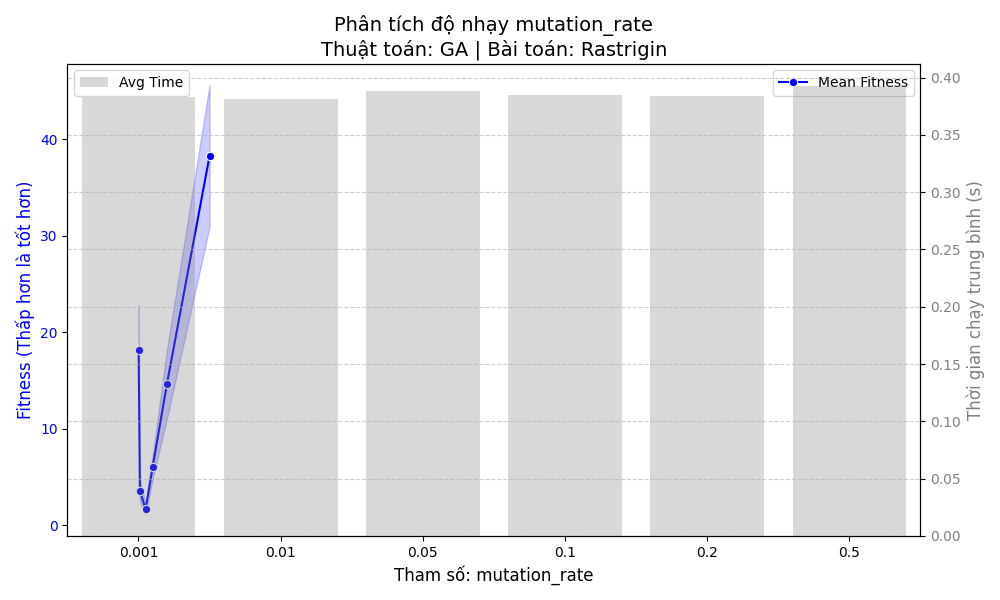
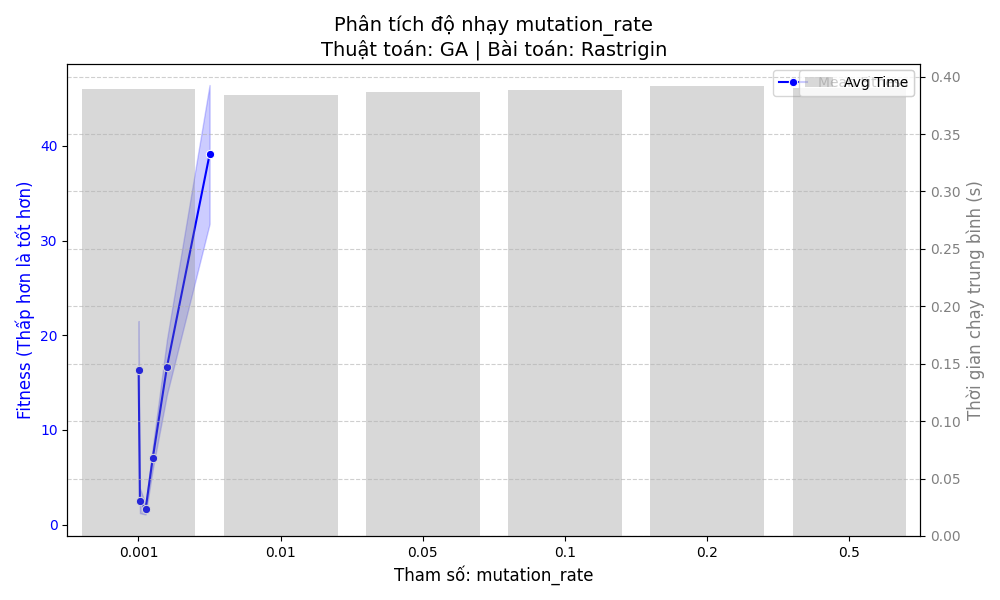
Remove the scipy library, add a comparison between some algorithms

diff --git a/main.py b/main.py
@@ -1,5 +1,4 @@
 import numpy as np
-from scipy import stats  # Thêm thư viện thống kê cho Scenario 4
 
 from problems.continuous import Sphere, Rastrigin, Rosenbrock, Ackley
 from problems.discrete import TSP, Knapsack, ShortestPath
@@ -35,10 +34,11 @@ from utils.experiments import run_suite
 from utils.metrics import run_scalability_test
 from utils.visualization import plot_3d_surface
 
+
 # Thử nghiệm import module phân tích nâng cao
 try:
     from utils.sensitivity import run_parameter_sweep, plot_sensitivity_results
-    from utils.advanced_analysis import plot_exploration_exploitation
+    from utils.advanced_analysis import perform_ttest_numpy, perform_ranksums_numpy, plot_exploration_exploitation
     HAS_ADVANCED_TOOLS = True
 except ImportError:
     HAS_ADVANCED_TOOLS = False
@@ -211,8 +211,8 @@ def main():
     print(f"DE:  {np.mean(de_results):.4f} ± {np.std(de_results):.4f}")
     
     # Thực hiện kiểm định
-    t_stat, p_val_t = stats.ttest_ind(pso_results, de_results)
-    w_stat, p_val_w = stats.ranksums(pso_results, de_results)
+    t_stat, p_val_t = perform_ttest_numpy(pso_results, de_results)
+    w_stat, p_val_w = perform_ranksums_numpy(pso_results, de_results)
     
     print("\n[KIỂM ĐỊNH THỐNG KÊ (Alpha = 0.05)]")
     print(f"1. T-Test P-value: {p_val_t:.4e}")
@@ -224,6 +224,70 @@ def main():
         print(f"=> Nhận định: {better_algo} hoạt động tốt hơn hẳn thuật toán còn lại trên bài toán Rastrigin 10D.")
     else:
         print("=> KẾT LUẬN: P-value >= 0.05. KHÔNG CÓ sự khác biệt rõ rệt về mặt thống kê.")
+
+    # ------------------------------------------
+    # MỞ RỘNG: T-TEST CHO BÀI TOÁN RỜI RẠC
+    # ------------------------------------------
+    print("\n" + "-"*60)
+    print("SCENARIO 4.1: T-TEST FOR TSP (GA vs ACO)")
+    print("-"*60)
+
+    tsp_stats_problem = TSP(n_cities=20)
+
+    print(f"Đang chạy thu thập mẫu cho GA-TSP ({n_runs_stats} lần)...")
+    ga_tsp_results = [
+        GeneticAlgorithmTSP(tsp_stats_problem, max_iter=500, pop_size=50).solve()[1]
+        for _ in range(n_runs_stats)
+    ]
+
+    print(f"Đang chạy thu thập mẫu cho ACO ({n_runs_stats} lần)...")
+    aco_results = [
+        ACO(tsp_stats_problem, max_iter=200, n_ants=20, decay=0.5).solve()[1]
+        for _ in range(n_runs_stats)
+    ]
+
+    t_stat_tsp, p_val_tsp = perform_ttest_numpy(ga_tsp_results, aco_results)
+    print(f"GA-TSP: {np.mean(ga_tsp_results):.4f} ± {np.std(ga_tsp_results):.4f}")
+    print(f"ACO:    {np.mean(aco_results):.4f} ± {np.std(aco_results):.4f}")
+    print(f"T-Test p-value: {p_val_tsp:.4e}")
+    if p_val_tsp < 0.05:
+        better_tsp = "GA-TSP" if np.mean(ga_tsp_results) < np.mean(aco_results) else "ACO"
+        print(f"=> Có khác biệt có ý nghĩa thống kê. Thuật toán tốt hơn: {better_tsp}.")
+    else:
+        print("=> Chưa thấy khác biệt có ý nghĩa thống kê giữa GA-TSP và ACO.")
+
+    print("\n" + "-"*60)
+    print("SCENARIO 4.2: T-TEST FOR KNAPSACK (Hill Climbing vs Simulated Annealing)")
+    print("-"*60)
+
+    knapsack_stats_problem = Knapsack(n_items=50)
+
+    print(f"Đang chạy thu thập mẫu cho HillClimbingKnapsack ({n_runs_stats} lần)...")
+    hc_knapsack_results = [
+        HillClimbingKnapsack(knapsack_stats_problem, max_iter=500).solve()[1]
+        for _ in range(n_runs_stats)
+    ]
+
+    print(f"Đang chạy thu thập mẫu cho SimulatedAnnealingKnapsack ({n_runs_stats} lần)...")
+    sa_knapsack_results = [
+        SimulatedAnnealingKnapsack(knapsack_stats_problem, max_iter=500, initial_temp=1000).solve()[1]
+        for _ in range(n_runs_stats)
+    ]
+
+    # Knapsack fitness trả về giá trị âm (vì framework minimize), nên ta đảo dấu khi hiển thị
+    hc_values = -np.array(hc_knapsack_results)  # Giá trị thực (dương)
+    sa_values = -np.array(sa_knapsack_results)  # Giá trị thực (dương)
+    
+    t_stat_knapsack, p_val_knapsack = perform_ttest_numpy(hc_knapsack_results, sa_knapsack_results)
+    print(f"HC-Knapsack (Giá trị): {np.mean(hc_values):.4f} ± {np.std(hc_values):.4f}")
+    print(f"SA-Knapsack (Giá trị): {np.mean(sa_values):.4f} ± {np.std(sa_values):.4f}")
+    print(f"T-Test p-value: {p_val_knapsack:.4e}")
+    if p_val_knapsack < 0.05:
+        # Đối với Knapsack: Giá trị CAO HƠN = TỐT HƠN (do ta đã đảo dấu)
+        better_knapsack = "HC-Knapsack" if np.mean(hc_values) > np.mean(sa_values) else "SA-Knapsack"
+        print(f"=> Có khác biệt có ý nghĩa thống kê. Thuật toán tốt hơn: {better_knapsack}.")
+    else:
+        print("=> Chưa thấy khác biệt có ý nghĩa thống kê giữa HC và SA trên Knapsack.")
 
     # ==========================================
     # SCENARIO 5: PHÂN TÍCH NÂNG CAO (SENSITIVITY & EXPLORATION)

diff --git a/utils/advanced_analysis.py b/utils/advanced_analysis.py
@@ -2,6 +2,26 @@ import numpy as np
 import matplotlib.pyplot as plt
 import pandas as pd
 
+
+def _norm_cdf_approx(x):
+    """
+    Xấp xỉ CDF của phân phối chuẩn chuẩn hóa N(0,1) bằng công thức
+    Abramowitz-Stegun.
+    """
+    z = np.asarray(x, dtype=float)
+    abs_z = np.abs(z)
+    t = 1.0 / (1.0 + 0.2316419 * abs_z)
+    poly = (
+        0.319381530 * t
+        - 0.356563782 * t**2
+        + 1.781477937 * t**3
+        - 1.821255978 * t**4
+        + 1.330274429 * t**5
+    )
+    pdf = 0.3989422804014327 * np.exp(-0.5 * abs_z**2)
+    cdf_pos = 1.0 - pdf * poly
+    return np.where(z >= 0, cdf_pos, 1.0 - cdf_pos)
+
 def perform_ttest_numpy(data1, data2):
     """
     Thực hiện kiểm định t-test độc lập (Independent T-test) bằng NumPy thuần.
@@ -13,10 +33,65 @@ def perform_ttest_numpy(data1, data2):
     
     # Tính t-statistic
     pooled_se = np.sqrt(v1/n1 + v2/n2)
+    if pooled_se == 0:
+        return 0.0, 1.0
     t_stat = (m1 - m2) / pooled_se
     
-    # Báo cáo: Nếu |t| > 2 (xấp xỉ mức alpha=0.05), sự khác biệt có ý nghĩa
-    return t_stat, "Significant" if abs(t_stat) > 2.1 else "Not Significant"
+    # Xấp xỉ P_value bằng hàm lỗi erf - Dựa trên phân phối chuẩn
+    # Với n > 30, phân phối T xấp xỉ phân phối chuẩn
+    cdf = _norm_cdf_approx(abs(t_stat))
+    p_value = 2 * (1 - cdf)
+
+    return float(t_stat), float(p_value)
+
+
+def perform_ranksums_numpy(data1, data2):
+    """
+    Wilcoxon rank-sum (Mann-Whitney U) bằng NumPy thuần,
+    trả về z-statistic và p-value hai phía.
+    """
+    sample1 = np.asarray(data1, dtype=float)
+    sample2 = np.asarray(data2, dtype=float)
+    n1, n2 = len(sample1), len(sample2)
+
+    if n1 == 0 or n2 == 0:
+        return 0.0, 1.0
+
+    combined = np.concatenate([sample1, sample2])
+    order = np.argsort(combined, kind='mergesort')
+    sorted_values = combined[order]
+
+    ranks_sorted = np.empty(len(combined), dtype=float)
+    i = 0
+    while i < len(sorted_values):
+        j = i
+        while j + 1 < len(sorted_values) and sorted_values[j + 1] == sorted_values[i]:
+            j += 1
+        avg_rank = (i + j + 2) / 2.0
+        ranks_sorted[i:j + 1] = avg_rank
+        i = j + 1
+
+    ranks = np.empty(len(combined), dtype=float)
+    ranks[order] = ranks_sorted
+
+    r1 = np.sum(ranks[:n1])
+    u1 = r1 - n1 * (n1 + 1) / 2.0
+
+    n = n1 + n2
+    mean_u = n1 * n2 / 2.0
+
+    if n <= 1:
+        return 0.0, 1.0
+
+    _, counts = np.unique(combined, return_counts=True)
+    tie_term = np.sum(counts**3 - counts)
+    var_u = (n1 * n2 / 12.0) * ((n + 1) - tie_term / (n * (n - 1)))
+    if var_u <= 0:
+        return 0.0, 1.0
+
+    z_stat = (u1 - mean_u) / np.sqrt(var_u)
+    p_value = 2 * (1 - _norm_cdf_approx(abs(z_stat)))
+    return float(z_stat), float(p_value)
 
 def plot_exploration_exploitation(diversity_hist, fitness_hist, title="Exploration vs Exploitation"):
     """
